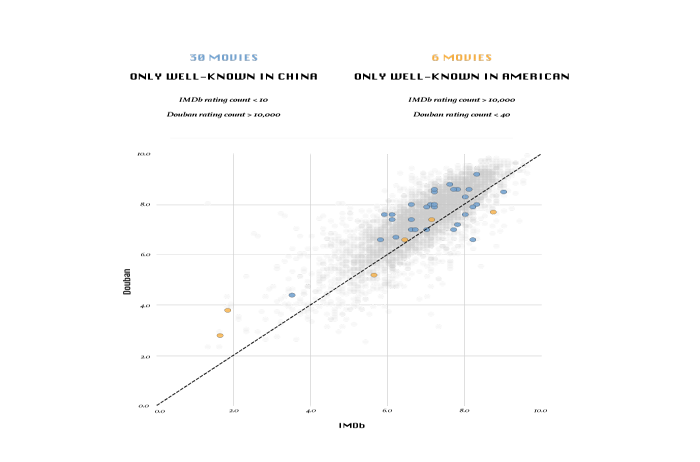
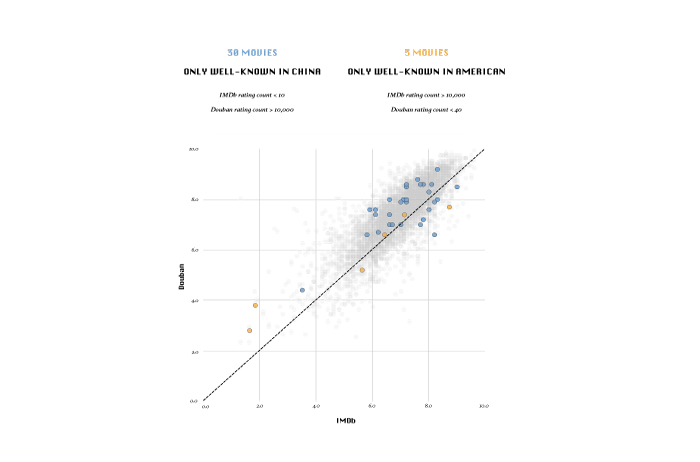
website update

diff --git a/project_1_douban_movies/douban_movies.html b/project_1_douban_movies/douban_movies.html
@@ -21,11 +21,10 @@
 
 <p class="by">by CHEN WANG</a> &nbsp;|&nbsp; July 23, 2017</p>
 
-<p>By analyzing 40,810 movies on <a href="https://movie.douban.com/" target="_blank">Douban</a> (豆瓣), a popular Chinese social networking service website allowing registered users to record information and create content related to film, books, music, recent events and activities in Chinese cities, 
-I found 5,459 movies that have ratings on both IMDb and Douban. The difference are the movies: (1) has an IMDb page but doesn't have enough voters on IMDb or/and Douban to generate a rating; (2) doesn't have a IMDb page.
+<p>I found 5,459 movies that have ratings on both IMDb and Douban, after analyzing 40,810 movies on <a href="https://movie.douban.com/" target="_blank">Douban</a> (豆瓣), a popular Chinese social networking service website allowing registered users to record information and create content related to film, books, music, recent events and activities in Chinese cities. 
+The difference are the movies: (1) has an IMDb page but doesn't have enough voters on IMDb or/and Douban to generate a rating; (2) doesn't have a IMDb page.
 Among these 5,450 movies, 2,345 movies have more than 10,000 ratings on both IMDb and Douban. 
-The best movie is BBC documentary, <a href="http://www.imdb.com/title/tt5491994" target="_blank">"Planet Earth Season 2"</a>, which has a rating of 9.6 on IMDb and 9.9 on Douban.
-The worst movie is <a href="http://www.imdb.com/title/tt0372873/" target="_blank">"Dragon Wars: D-War"</a>, a Korean fantasy movie.</p>
+The best movie is the BBC documentary <a href="http://www.imdb.com/title/tt5491994" target="_blank">"Planet Earth Season 2"</a>, which has a rating of 9.6 on IMDb and 9.9 on Douban, and the worst is the Korean fantasy movie <a href="http://www.imdb.com/title/tt0372873/" target="_blank">"Dragon Wars: D-War"</a>, 3.6 on IMDb and 4.0 on Douban.</p>
 
 <p>However, is there any movie well-known in North America but barely heard of in China?</p>
 
@@ -33,9 +32,7 @@ The worst movie is <a href="http://www.imdb.com/title/tt0372873/" target="_blank
 
 <div class="content"><img src="intro.png" /></div>
 
-<!-- <h2>Only infrequent connection during afternoon rush hour</h2> -->
-
-<!-- <p> But when we look to the measurements from other cities we see far weaker correlations. In some cases there seems to be a contrary effect:</p> -->
+<p>It is not surprising that all the 30 movies only popular on Douban can be classified into only 5 categories. </p>
 
 <div class="content"><img src="only_popular_in_asia.png" /></div>
 
